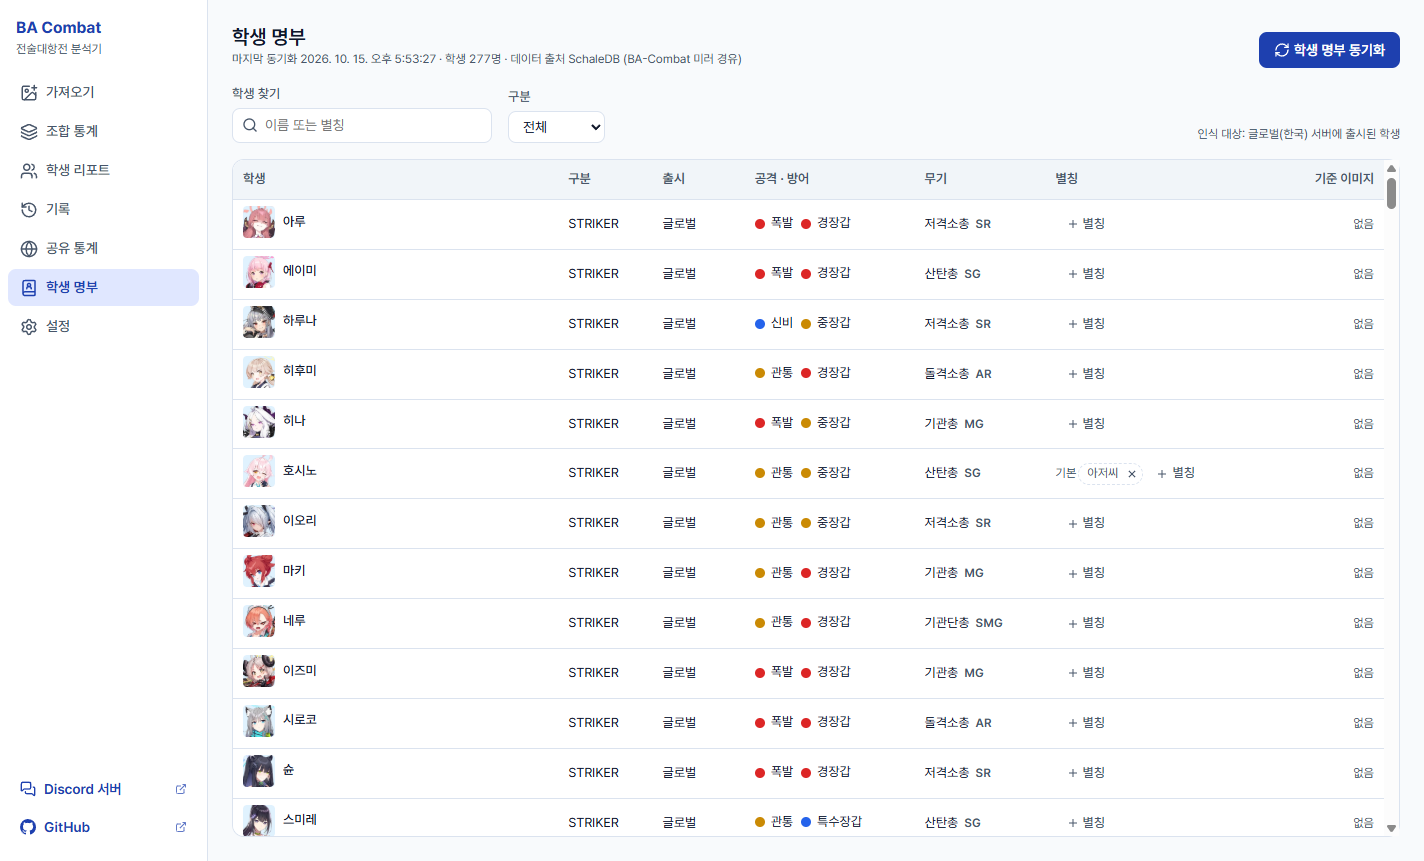
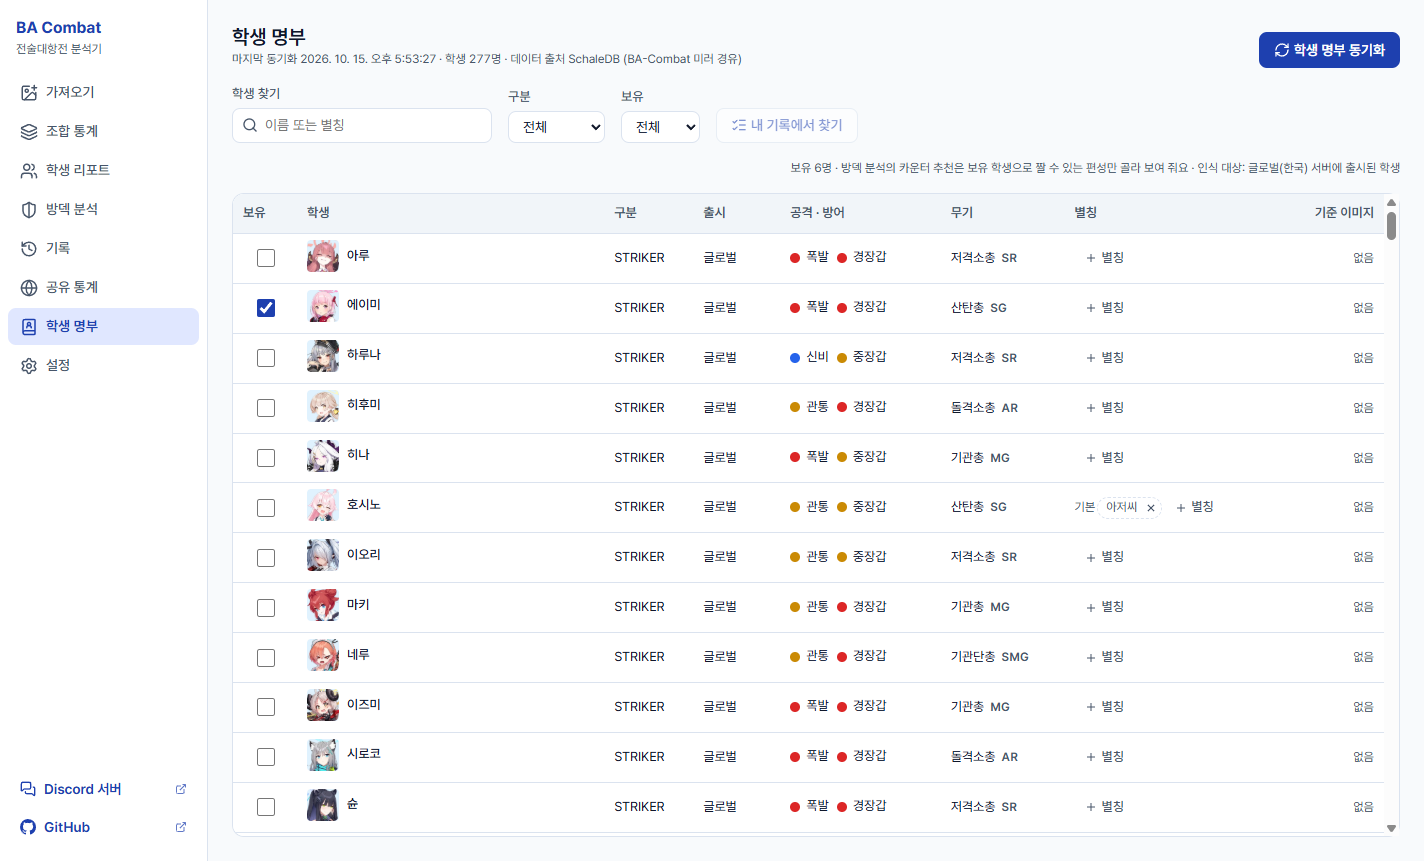
Describe the defense analysis, owned students and battle time
- New 방덱 분석 section with screenshots (opponent decks, counters)
- Roster mentions owned students; data folder lists opponents.json
- Privacy: nicknames are never read automatically; opponent names and notes you type stay on this
  device (local backups only, not synced, not restored by logging in); battle time and owned
  students are part of synced records
- Screenshots refreshed (records show linked opponents, import review shows the battle time)

diff --git a/README.md b/README.md
@@ -64,13 +64,27 @@
   - **내 편으로 썼을 때 / 상대로 만났을 때**: 내 입장에서 본 승률
 - "공유 통계" 보기로 바꾸면 여러 사람이 공유한 기록으로 본 학생별 등장률·승률·배치 순서를 볼 수 있습니다([공유 통계](#공유-통계-웹-버전-선택)).
 
+### 방덱 분석
+
+![방덱 분석: 상대별 방덱](docs/images/defense.png)
+
+내 기록만으로 기기 안에서 계산합니다.
+
+- **상대별 방덱**: 공격 리포트를 저장할 때(또는 나중에) 상대를 고르거나 새 이름을 붙이면, 그 상대의 최근 방덱 n회와 방덱이 바뀐 것으로 보인 횟수, 내 승패를 보여 줍니다. 닉네임을 읽지 않으므로 상대 이름은 직접 붙이며, 같은 사람으로 확인되면 합칠 수 있습니다.
+- **카운터 찾기**: 고른 방덱과 싸운 내 공격덱을 같은 방덱 / 같은 학생·스트라이커 배치만 다름 / 비슷한 방덱(4~5명 같음, 참고용)으로 나눠 승률과 함께 보여 줍니다. 판수가 적은 100%보다 표본이 큰 높은 승률이 위에 오도록 정렬하고, **학생 명부에서 보유 학생을 체크하면** 지금 짤 수 있는 덱만 골라 볼 수 있습니다.
+- **내 방덱을 뚫은 덱**: 내 방덱별 방어 승률과, 그 방덱을 만난 공격덱의 승률(만난 모든 판 기준)을 보여 줍니다.
+- 전투 시각은 스크린샷 파일 시각을 기본으로 쓰고, 가져오기·기록 화면에서 고칠 수 있습니다. 시각을 모르는 기록이 섞이면 순서와 변경 횟수를 "추정"이라고 표시합니다.
+- 상대 이름·메모는 이 기기에만 저장됩니다([개인정보 보호](#개인정보-보호)).
+
+![방덱 분석: 카운터 찾기](docs/images/counters.png)
+
 ### 학생 프로필과 명부
 
 ![학생 프로필](docs/images/profile.png)
 
 - 학생을 누르면 프로필이 열립니다: 공격·방어 타입(상성 한 줄과 함께), 무기(예: 저격소총 SR), 사거리, 엄폐 가능 여부, 포지션, 역할, 학교, 지형 적성(시가지·야외·실내, S 이상은 강조). 형태가 여럿인 학생은 형태를 골라 볼 수 있습니다.
 - **스킬**: EX(코스트 포함)·기본·강화·서브 스킬을 게임 아이콘과 함께 최고 레벨 수치로 보여 주고, 설명 속 수치는 굵게 표시합니다. 애용품·고유무기로 강화된 효과는 카드 안에서 바꿔 볼 수 있습니다.
-- **학생 명부**에는 공격·방어 타입과 무기가 함께 나옵니다. 학생마다 별칭을 붙여 검색할 수 있습니다.
+- **학생 명부**에는 공격·방어 타입과 무기가 함께 나옵니다. 학생마다 별칭을 붙여 검색할 수 있고, **보유 학생**을 체크해 둘 수 있습니다("내 기록에서 찾기"로 내가 쓴 학생을 한 번에 확인). 보유 목록은 로그인하면 계정과 동기화됩니다.
 - **기본 별칭**: 운영자가 학생마다 자주 쓰는 별칭을 기본으로 정해 둡니다(점선 칩과 "기본" 표시). 고치면 그 목록이 내 별칭이 되고, "기본값으로"로 되돌릴 수 있습니다. 기본 별칭은 검색에만 쓰고 스크린샷 인식에는 쓰지 않습니다.
 
 ![학생 명부 화면](docs/images/roster.png)
@@ -129,15 +143,16 @@
 ### 기기 밖으로 보내지 않는 것
 
 - **스크린샷과 이미지는 어디로도 보내지 않습니다.** 인식(이미지 처리·글자 인식)은 전부 PC나 브라우저 안에서 하며, 외부 AI·LLM 서비스를 쓰지 않습니다. 로그인해 동기화해도 이미지는 각 기기에만 남습니다.
-- **게임 닉네임은 글자로 읽지 않습니다.** 전투 기록(텍스트)에도, 서버에도 들어가지 않습니다. 다만 이 기기에 저장되는 리포트 이미지에는 원본 그대로 보입니다.
+- **게임 닉네임을 자동으로 읽지 않습니다.** 전투 기록(텍스트)에도, 서버에도 들어가지 않습니다. 다만 이 기기에 저장되는 리포트 이미지에는 원본 그대로 보입니다.
+- **방덱 분석의 상대 이름·메모는 이 기기에만 저장합니다.** 상대 이름은 사용자가 직접 붙입니다. 이 이름·메모와 "어느 공격이 어느 상대였는지"의 연결은 로컬 백업 파일(ZIP)에는 들어가지만, 서버 동기화·공유 통계·서버 데이터 내려받기에는 들어가지 않으므로 새 기기에서 로그인해도 복구되지 않습니다. 실제 닉네임을 이름으로 적었다면 그 이름이 이 기기와 백업 파일에 남는다는 점에 유의해 주세요.
 - **데스크톱 앱에는 계정 기능이 없습니다.** 기록은 PC 안에만 저장됩니다.
 - 앱이 인터넷에서 **받기만** 하는 것: 학생 목록·스킬(이 리포의 `data` 브랜치 또는 SchaleDB), 학생 아이콘(SchaleDB), 공식 시즌 목록·기본 별칭·공유 통계(웹 버전 사이트). 이때 내 기록이나 식별 정보를 함께 보내지 않습니다.
 
 ### 로그인(웹 버전, 선택)했을 때
 
 - Discord 로그인은 **사용자 ID와 표시 이름만** 받는 최소 권한(`identify`)을 씁니다. 이메일, 참여 중인 서버 목록, 친구 목록은 받지 않고, Discord 접근 토큰도 저장하지 않습니다.
-- 서버에 올리는 것: 시즌, 전투 기록(학생·딜량·공격/방어·승패, 스크린샷 파일의 해시값), 별칭, 화면·인식 설정, Discord 사용자 ID와 이름
-- 올리지 않는 것: 스크린샷과 이미지, 게임 닉네임, 이메일, 위치 정보
+- 서버에 올리는 것: 시즌, 전투 기록(학생·딜량·공격/방어·승패, 전투 시각, 스크린샷 파일의 해시값), 별칭, 보유 학생 목록, 화면·인식 설정, Discord 사용자 ID와 이름
+- 올리지 않는 것: 스크린샷과 이미지, 게임 닉네임, 방덱 분석의 상대 이름·메모와 연결, 이메일, 위치 정보
 - 서버 기록은 그 계정만 볼 수 있습니다. 다른 사람의 기록을 보는 기능은 앱에도, 관리 화면에도 없습니다. (서버 데이터베이스를 관리하는 운영자는 기술적으로 저장된 기록에 접근할 수 있습니다.)
 - 설정에서 언제든 **서버 데이터 파일로 받기**로 내 서버 기록을 내려받을 수 있고, **계정 삭제**를 누르면 서버의 계정과 기록이 바로 지워집니다. 브라우저에 있는 기록은 남습니다.
 - 쿠키는 로그인을 유지하는 것 하나(30일)와 로그인 도중 잠깐 쓰는 것 하나(10분)뿐입니다. 광고·분석 도구나 다른 회사의 추적 스크립트는 쓰지 않고, 사이트의 보안 정책(CSP)으로 외부 스크립트가 실행되지 않게 막아 두었습니다.
@@ -212,6 +227,7 @@ Get-FileHash .\BA-Combat-<버전>-portable.exe -Algorithm SHA256
 | `roster.json` | 학생 명부(속성 포함), 내 별칭 |
 | `settings.json` | 화면·인식 설정 |
 | `official-seasons.json` | 받아 둔 공식 시즌 목록 |
+| `opponents.json` | 방덱 분석의 상대 이름·메모와 연결 (이 기기에만, 서버로 보내지 않음) |
 | `alias-presets.json` | 받아 둔 기본 별칭 (백업에는 넣지 않음) |
 | `student-skills.json` | 받아 둔 학생 스킬 (백업에는 넣지 않음) |
 | `battles/` | 저장한 전투 리포트 이미지 |
